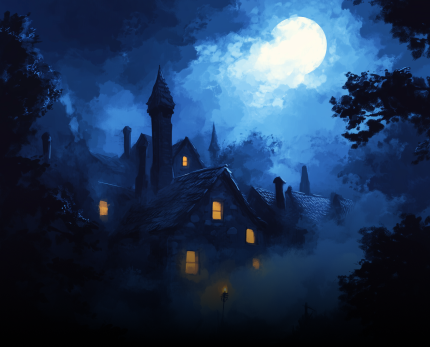
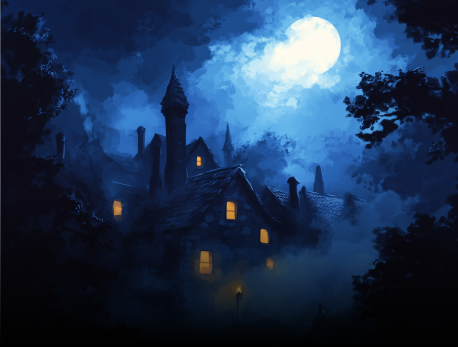
Story page responsive added

diff --git a/src/components/StoryPage/StoryPage.css b/src/components/StoryPage/StoryPage.css
@@ -9,9 +9,9 @@
 }
 
 .storyTextAndTitleContainer {
-	display: flex;
-	flex-direction: column;
-	align-items: center;
+  display: flex;
+  flex-direction: column;
+  align-items: center;
 }
 
 .storyTitleAndIcon {
@@ -38,6 +38,11 @@
   margin-bottom: 200px;
 }
 
+.storyImageContainer {
+  width: 100%;
+  height: 350px;
+}
+
 .storyContainer img {
   width: 100%;
 }
@@ -50,13 +55,10 @@
 }
 
 .storyContainer {
-	text-align: left;
+  text-align: left;
 }
 
 @media screen and (max-width: 280px) {
-  .pageTitle {
-    font-size: 1.2rem;
-  }
 
   .roleListNameAndIcon {
     margin-top: 14px;
@@ -67,16 +69,18 @@
     margin-right: 0.5rem;
   }
 
+  .storyTextContainer {
+    margin: 0 25px;
+    margin-top: 18px;
+    margin-bottom: 200px;
+  }
+
   .storyTextContainer p {
-    font-size: 0.8rem;
+    font-size: 0.7rem;
   }
 }
 
 @media screen and (min-width: 281px) and (max-width: 325px) {
-
-  .roleListNameAndIcon {
-    margin-top: 14px;
-  }
 
   .storyTitleAndIcon img {
     height: 1rem;
@@ -87,32 +91,55 @@
     font-size: 1rem;
   }
 
-  .roleListContainer {
-    margin-top: 28px;
-    gap: 1.25rem;
+  .storyTextContainer {
+    margin-left: 30px;
+    margin-top: 22px;
+    margin-right: 30px;
+  }
+
+  .storyTextContainer p {
+    font-size: 0.75rem;
   }
 }
 
 @media screen and (min-width: 326px) and (max-width: 350px) {
-  .pageTitle {
-    margin-top: 35px;
-    font-size: 1.25rem;
+  .storyTitleAndIcon img {
+    height: 1.1rem;
+    margin-right: 0.5rem;
   }
 
-  .roleListNameAndIcon {
-    margin-top: 20px;
+  .storyTitleAndIcon h2 {
+    font-size: 1.1rem;
   }
 
+  .storyTextContainer {
+    margin-left: 30px;
+    margin-top: 22px;
+    margin-right: 30px;
+  }
+
+  .storyTextContainer p {
+    font-size: 0.75rem;
+  }
+}
+
+@media screen and (min-width: 351px) {
   .storyTitleAndIcon img {
     height: 1.2rem;
     margin-right: 0.5rem;
   }
 
   .storyTitleAndIcon h2 {
-    font-size: 1rem;
+    font-size: 1.2rem;
   }
-}
 
-@media screen and (min-width: 351px) and (max-width: 400px) {
-  
+  .storyTextContainer {
+    margin-left: 30px;
+    margin-top: 22px;
+    margin-right: 30px;
+  }
+
+  .storyTextContainer p {
+    font-size: 0.85rem;
+  }
 }

diff --git a/src/components/RoleList/RoleList.js b/src/components/RoleList/RoleList.js
@@ -115,18 +115,20 @@ const RoleList = ({ roleListName }) => {
               )
             }
           >
-            <img
-              className="roleImg"
-              src={
-                window.location.origin +
-                "/images/" +
-                roleListName +
-                "/" +
-                role.image +
-                ".png"
-        }
-              alt=""
-            />
+            <div className="roleImgContainer">
+              <img
+                className="roleImg"
+                src={
+                  window.location.origin +
+                  "/images/" +
+                  roleListName +
+                  "/" +
+                  role.image +
+                  ".png"
+                }
+                alt=""
+              />
+            </div>
             <p className="roleName">{role.name}</p>
           </div>
         ))}

diff --git a/src/components/RoleList/RoleList.css b/src/components/RoleList/RoleList.css
@@ -57,6 +57,10 @@
   gap: 2.25rem;
 }
 
+.roleImgContainer {
+  height: 105px;
+}
+
 .role {
   width: 105px;
   display: flex;
@@ -67,6 +71,7 @@
 
 .roleImg {
   /* width: 127px; */
+  width: 100%;
   border-radius: 6px;
 }
 
@@ -106,6 +111,10 @@
   .role {
     width: 85px;
   }
+
+  .roleImgContainer {
+    height: 85px;
+  }
 }
 
 @media screen and (min-width: 281px) and (max-width: 325px) {
@@ -133,6 +142,10 @@
 
   .role {
     width: 89px;
+  }
+
+  .roleImgContainer {
+    height: 89px;
   }
 }
 
@@ -163,6 +176,10 @@
   .role {
     width: 92px;
   }
+
+  .roleImgContainer {
+    height: 92px;
+  }
 }
 
 @media screen and (min-width: 351px) and (max-width: 400px) {
@@ -173,5 +190,9 @@
 
   .role {
     width: 110px;
+  }
+
+  .roleImgContainer {
+    height: 110px;
   }
 }

diff --git a/src/components/StoryPage/StoryPage.js b/src/components/StoryPage/StoryPage.js
@@ -6,7 +6,9 @@ import storyIcon from "../../assets/images/lore-menu-icon-outlined-activated.svg
 const StoryPage = () => {
   return (
     <div className="storyContainer">
-      <img src={storyImage} alt="" />
+      <div className="storyImageContainer">
+        <img src={storyImage} alt="" />
+      </div>
       <div className="storyTextAndTitleContainer">
         <div className="storyTitleAndIcon">
           <img className="storyImg" src={storyIcon} alt="" />

diff --git a/src/components/AppContainer/AppContainer.css b/src/components/AppContainer/AppContainer.css
@@ -14,6 +14,7 @@
 .loadingScreen {
   width: 100%;
   height: 100svh;
+  max-width: 521px;
   position: absolute;
   z-index: 3;
   background-image: url("../../assets/images/loading-screen.png");
